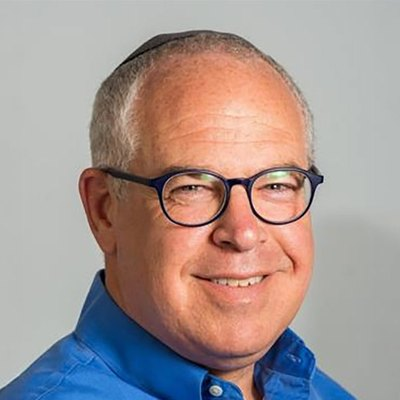
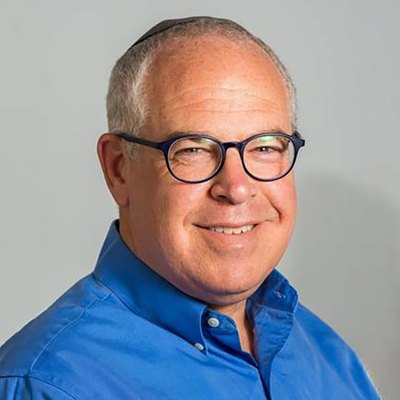
Feldstein portrait: zoom out slightly, raise head in circle
Claude-Session: https://claude.ai/code/session_018FvaGWmpi4YXVSvv84J7zQ

diff --git a/endorsements.html b/endorsements.html
@@ -63,7 +63,7 @@
       </div>
     </article>
     <article class="endorse">
-      <div class="who"><img src="assets/img/feldstein.jpg" alt="Jonathan Feldstein" width="168" height="168" loading="lazy"></div>
+      <div class="who"><img src="assets/img/feldstein.jpg?v=2" alt="Jonathan Feldstein" width="168" height="168" loading="lazy"></div>
       <div>
         <blockquote><p>“There are an infinite number of good things to say about <i>Jesus &amp; the Temple Mount: An Illustrated Guide for Followers of Jesus</i>, indeed a book could be written just about that with no exaggeration. John Enarson brings together faith, theology, history, and truth in a way that is exceedingly well presented and just makes sense. He contributes to an important historical piece specifically in highlighting the reality that Jesus was a First Century Jew for whom the Temple was central, personally and nationally.”</p></blockquote>
         <cite><b>Jonathan Feldstein</b>President, Genesis 123 Foundation · An Orthodox Jewish voice from Israel</cite>

diff --git a/index.html b/index.html
@@ -86,7 +86,7 @@
           <figcaption><b>Rev’d Canon Dr. Jules Gomes</b><br>PhD in Hebrew Bible, University of Cambridge</figcaption>
         </figure>
         <figure class="quote">
-          <img src="assets/img/feldstein.jpg" alt="Jonathan Feldstein" width="120" height="120">
+          <img src="assets/img/feldstein.jpg?v=2" alt="Jonathan Feldstein" width="120" height="120">
           <blockquote>“John Enarson brings together faith, theology, history, and truth in a way that is exceedingly well presented and just makes sense.”</blockquote>
           <figcaption><b>Jonathan Feldstein</b><br>President, Genesis 123 Foundation · An Orthodox Jewish voice from Israel</figcaption>
         </figure>
